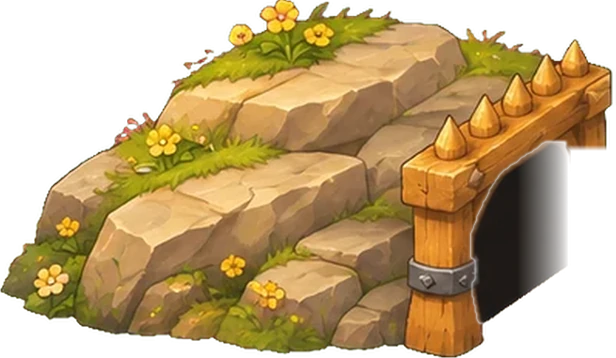
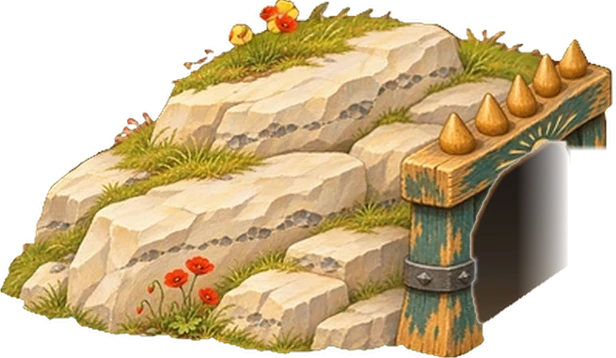
night(codex): round 13

diff --git a/design/art-2d/v2/biomes/orchard/sunlit-meadow.md b/design/art-2d/v2/biomes/orchard/sunlit-meadow.md
@@ -1,0 +1,62 @@
+# Sunlit Meadow
+
+The cottage in the intro has a teal door, a honey jar and a straw hive under the eaves. Its apiary now stands in the western hay meadow, where a hawthorn shelters two skeps. The cottage steps join a worn yard that leads to the bench. The carved sun rising over waves stands near the last bend, in view of the castle. A laid hedge divides the northern hayfield.
+
+The petals on the meadow painting supply the scatter exclusion mask. A small cutting of short grass covers the western tip of the eastern poppy drift to clear plot 8. The mask follows the finished painting. Loose buttercups and hawthorn grow in the gaps between the flower beds. The western gate retains its measured opening. Its lintel carries a sun carving above weathered teal-painted jambs.
+
+The chalk lane uses a single strip of painted ground sampled by distance along the spline. Flat limestone shows through on the bends. Seven stretches of the stone painting blend into chalk and gravel, and the existing dusty shoulder treatment exposes pasture at the edges.
+
+Rebuild from the checkout root.
+
+```sh
+/usr/bin/python3 -B tools/map-compose/rebake_all.py i01
+```
+
+## Source paintings
+
+The built-in ImageGen tool produced these paintings. The terrain reference was the original meadow with the intended flower drifts marked in orange. The gate reference was the orchard entrance viewed from the east-facing side. The freestanding paintings retain their generated alpha. The registered gate finish uses the original silhouette.
+
+### terrain-i01.webp
+
+Repaint the attached registered terrain guide for an original hand-painted storybook tower defense landscape. Extra-wide full bleed steep overhead view of a sunlit meadow on a small island; preserve the exact aspect ratio and layout. The orange guide areas should become loose drifts of vermilion and warm red poppies with dark central seeds, nodding heads, hairline sage stems, a few white oxeye daisies and tall honey-colored grasses. Large and small drifts gather on the boundaries of a hay meadow, responding to the slope with irregular natural edges and grassy clearings. Each flower head is tiny, 4–9 pixels wide in an 1846px wide game landscape; plants built with confident gouache marks and readable small silhouettes. Vary the concentrations, let plants trail off into grass, leave breaks and pockets of exposed earth between drifts. Grassy headlands are low moss-green turf, sun-warmed with muted olive shadows, miniature irregular clover and some short-grass late spring hay stubble. Keep central green clearings around the original locations completely open, low contrast and suitable for gameplay, paint some short broken strokes of meadow grass into the broad smears. All orange guide colors must disappear. No objects, paths, geometric plots, buildings, trees, large rocks, containers, text, horizon or border. Light from upper left.
+
+The final painting uses the registered meadow as its reference.
+
+Final detail pass on the attached original storybook tower-defense terrain plate at high resolution. Preserve exact framing, registration, flower-patch shapes and all open grass areas. Keep the coherent warm spring lighting. Plants are seen from high above like a real miniature meadow. Replace the oversized evenly orange blob-poppies with finer groups of individual scarlet and vermilion papery poppies, MOST flower heads half their current diameter, occasional slightly larger flowers, some round buds and dark centers, nestled amongst mixed sage-green grasses and seedheads angled in subtly different directions. Do not add flowers outside the existing drifts. The broad olive-green empty spaces should remain pastoral and calm, but the overly long muddy smear marks should become short softly grouped tufts of mown grass, tiny leaves and patches of worn ground irregularly broken up in the light. Maintain an attractive naturally irregular scale and overall pattern, with sufficient quiet negative space for a strategy game. Aerial painted-gouache landscape, no perspective shift, storybook palette with natural, modest contrast, clean painterly shapes visible even in a close crop. No flat repetitive dot patterns. No objects, large stone, tree, road, symbol, people, words, fence, plot or buildings. Full bleed EXACT same composition and aspect ratio.
+
+### landmark-honey-cottage.webp
+
+Use case: illustration-story. A single original small honey farmer’s cottage game sprite on a genuinely transparent background, for an original hand painted storybook landscape. Steep three-quarter aerial camera; view from the front left. Compact single-storey chalk-plaster house, rounded weathered masonry corners, honey-gold scalloped wood shingles on a steep roof, one stone chimney, little teal-blue arched door facing lower left. Red poppies in a windowbox under a small side window, wood lintels, a suspended straw bee skep trailing discreetly from eave at right. Clear grounded base with two stone steps and earthenware honey jar. Charming asymmetrical craftsmanship, wide roof with visible planes. Broad matte warm gouache, small umber contours, illuminated upper left, shadows beneath eaves. Strong readable silhouette at 100px game size. No people, writing, smoke, landscape, ground tile, surrounding garden or cast shadow. Generous clear margin.
+
+### landmark-apiary-yard.webp
+
+A single original hand-painted game ground decal on transparent background for a honey farmer’s cottage yard. Looking steeply down onto a worn little patch of honey-colored sandy earth, set with a handful of rough irregular flat cream limestone stepping stones on the western side. East end narrows into a little trodden turf footpath with three more stones, reaching toward the beehive bench. A few tiny hints of clover and red wild poppies where the soil crumbles into grass at the edges. Broad low oblong, about three times wider than tall, with ragged asymmetrical edges. Humble rustic forecourt, no architecture, fence, tools, bees, hives, objects, garden structures, platform, border or cast shadow. Softly varied granular brushwork, warm gouache storybook illustration, restrained natural contrast. Generous transparent margin.
+
+### landmark-skep-bench.webp
+
+Use case: illustration-story. A tiny single original hand-painted game scenery sprite on a transparent background. Two traditional golden coiled straw beehives, one taller than the other, atop a low weathered oak bench with four chunky short feet, viewed steeply from the front left and above. Each skep has a small dark entrance slit and a little sheltering round slate cap. A handled terracotta honey pot with cream cloth lid sits by one leg, and three tiny vermilion poppies lean at its foot. Bench is oblong horizontal, warmly lit upper left, cool shade under its greenish oak boards. Characterful simple chunky shapes clearly readable at 50px. Gouache painted miniature, irregular inked brown edges, stylized painted natural materials. No garden landscape, no isometric tile, text, people or cast shadow. Fully isolated with padding.
+
+### landmark-sun-stone.webp
+
+Use case: illustration-story. Single original hand-painted game landmark sprite on a genuinely transparent background. A broad knee-high irregular grey sandstone waystone grounded among a few green grass blades and tiny red poppies, seen from a steep overhead three-quarter aerial angle. Front is a broad smooth tilted face, carved with a single clear sun disk half rising from two simple parallel wavy incised lines; seven short rays radiate upwards, deep ochre in the cuts. The tiny stone is a low tilted slab with a broken corner, golden lichen on the upper rim. Bold large clean readable sun symbol occupying most of its face, charming soft gouache brushwork, warm storybook paint, umber contours, warm afternoon light upper left. Front and top clearly visible. Entire object isolated with margins. No pedestal, lettering, people, frame, background or cast shadow.
+
+### landmark-spring-hawthorn.webp
+
+A single original hand-painted small scenery sprite for a gouache storybook game on genuine transparent background. One mature hawthorn tree grown low and broad in the wind on a sunny coastal meadow. Crooked forked and slightly leaning silver-brown trunk and spreading dark branches still visible through loose irregular lobes of sage-green foliage studded with small ivory blossom clusters. Steep three-quarter view from above, showing full compact crown and trunk. A few boughs arch out to the right; little tussock at the roots. Expressive asymmetrical silhouette and grouped areas of light and shade, warm light upper left, thin deep umber painted contours. Simple and legible at a small game size. Isolated with breathing space. No plot, background, shadow, fruit, people or text.
+
+### landmark-laid-hedge.webp
+
+A single original scenery sprite of a short length of traditionally laid spring hedgerow dividing a wildflower meadow, isolated on a transparent background, in steep three-quarter overhead game perspective. A low long sinuous hedgerow about FOUR times wider than tall, running mostly left to right; at the left end there is a slightly higher leafy hazel coppice. Right half shows canes carefully bent and interwoven between five short irregular weathered upright stakes along a narrow raised grassy bank. A few green shoots and small white blossoms grow on the arching living stems. Warm light upper left, soft olive, ochre, fresh spring green, natural umber ink edges, original hand painted matte gouache miniature, clear strong silhouette at 60 pixels tall. Give the entire length generous margins and gentle perspective, loose irregular grassy ends, no fence panels, railings, metal, walls, buildings, ground tile, garden, text or cast shadow.
+
+### poppy-postern-e.webp
+
+Repaint the attached isolated game cave gate, preserving its exact silhouette, canvas and placement of the timber jambs, lintel, rock profile and dark opening at lower right. This is the same small tunnel now in a sun-warmed chalk downland. Original hand-painted storybook art, steep three-quarter view. The old tapered timber jambs have weathered deep teal paint worn away to honey oak at the corners. A small band of sun-ray notch carvings in pale ochre across the lintel. Keep the dark iron bands and rounded wooden finials on top in their positions. Replace the layered slabs’ colour with creamy warm chalk and flint seams. Tiny scarlet poppies with delicate green stems grow in pockets of soil at the top and bottom left instead of yellow daisies. Clear wood grain and confidently grouped gouache paint, readable as a miniature. The passage must stay completely open with the precise same shape, shadow near black. No signs, text, hanging objects or structural additions. Truly transparent background.
+
+### tex-chalk-lane.webp
+
+Original hand-painted storybook game material, landscape rectangle completely filled edge to edge with fine worn warm honey-grey buff clay on a chalk downland footpath viewed from directly overhead. Dense compacted tawny earth with small groups of buried matte chalk pebbles in warm ivory, honey gravel, tiny umber-edged flints and small scattered rounded patches of slightly pink mineral earth. Infrequent short dry hairline cracks, scuffed patches. Scale: broad plate of ground, the largest single pebble less than one half of one percent of frame width. Many fine confident gouache brushmarks. Restrained contrast, composed in natural uneven groups and with quieter bare patches. Warm daylight from upper left. No horizon, road edges, large rocks, greenery, objects, paving, text or visible pattern.
+
+### tex-chalk-lane.webp, limestone patches
+
+Wide landscape-format 2D material painting, directly overhead. An original storybook game chalk footpath surface in warm honey earth. Three LONG HORIZONTAL BANDS of the track, stacked one above the next, full bleed from left to right. Each band depicts a different stretch of the same old footpath. The three bands have the same warm ochre and dusty buff ground color across the whole picture. Upper band: partly buried rounded ivory limestone slabs, arranged in an intermittent crossing of close stones, then gaps of buff earth. Middle band: smoother ochre clay mottled with small pockets of submerged chalk and a few discrete irregular flagstones; bare stretches between them. Lower band: groups of weathered sandy limestone cobbles alternate with worn ochre soil. Stones are mostly flat, irregular and hand-set, shallow subsidence at their edges, SINGLE stones generally 3 to 6 percent of the image width; some almost flush with the earth, a few soft olive lichen spots, tiny chamfered edges. Material is humble farm road paving. Matte gouache, hand painted broad shapes, muted shade in russet grey, thin warm dark edges, soft afternoon light. Paint the earth continuously across all three bands; NO graphic dividers, NO grass verges or overarching borders, NO tall boulders, no plants or deep cracks or white outlines, no lettering, sprites or perspective horizon.
+

diff --git a/docs/overnight/PROGRESS-codex.md b/docs/overnight/PROGRESS-codex.md
@@ -1,5 +1,28 @@
 # Content overnight · codex
 
+## Round 13 · 03:35–03:55 UTC · codex/night
+
+Started from `b7d7d07`. The runner owns the commit.
+
+### Done
+
+- **i01 Sunlit Meadow.** Moved the beekeeper’s cottage into the western poppy field. A blossoming hawthorn shelters its hive bench, and the doorstep opens onto a worn yard. The stone from the intro stands in a separate drift at the eastern bend, with the carved sun and waves facing the player. A laid hazel hedge marks the northern headland. Repeated orchard trellises have given way to flower drifts with irregular breaks and mown grass between them. [Whole island and native 2× details](maps-round13-meadow.jpg)
+- Cream chalk, flint seams and weathered teal timbers carry the meadow colours into the west entrance. Patches of buried limestone follow the bends of the chalk lane. The first trial put flowers over the edge of plot 8. A cutting of short grass pulled the drift away. A native-size review beside the hives prompted a second painting with finer poppies, distinct stems and more variation in the grass. [Source paintings, prompts and rebuild command](../../design/art-2d/v2/biomes/orchard/sunlit-meadow.md)
+
+### Verification
+
+- Re-baked with `--keep-plots`. All 25 saved layouts match the starting revision byte for byte and pass the compositor geometry checks. Decoded all 100 maps and 132 gate fronts. The four i01 foreground alpha channels match their originals. A clean second bake reproduced all eight i01 textures byte for byte. The eight shipping files grew by 1,059,736 bytes in total, including 144,692 bytes for the phone’s 1.5× map. The west entrance retains its existing 34 px bleed at the desktop safe-area edge.
+- Played Zephyr Dash at tick 181 with four towers and four enemies, and The Dreadnought Arrives at tick 510 with ten towers and fifteen enemies. All six final before/after pairs match on wave tick, ground-enemy positions, total enemies, builds, gold, lives, camera fit and gate texture widths. Desktop ran at 1920 × 1080 at DPR 1 and 2, and phone at 844 × 390 at DPR 3. The DPR 2 desktop loaded the native 3× map. At phone scale the cottage is 63 CSS px tall and the sun stone is 38 CSS px tall. Both clear the HUD and the occupied plots in the finale. [Desktop combat](maps-round13-desktop.jpg) · [Phone combat at CSS size](maps-round13-phone.jpg)
[1 lines of base64/hex data omitted]
+
+### Requests for other agents
+
+Chapter two still awaits the shared roster, clip loader, death callback, story and Turkish entries from the earlier handoffs, plus the i21 horn placement. Round thirteen adds scenery with no new player-facing strings.
+
+### Next round
+
+Inspect i14 Amberstone Mesa. The story shows a busy trading gate with ochre awnings. In combat the plaza is bare red earth, with repeated rock piles and a small waystone below the junction. Give the plaza a market that reads on phone and leaves all three approaches and 24 plots clear. If the shared chapter registrations have landed, verify the production unlock, stories and first kills first.
+
 ## Round 12 · 03:06–03:35 UTC · codex/night
 
 Started from `0274da1`. The working tree is for the overnight runner.
